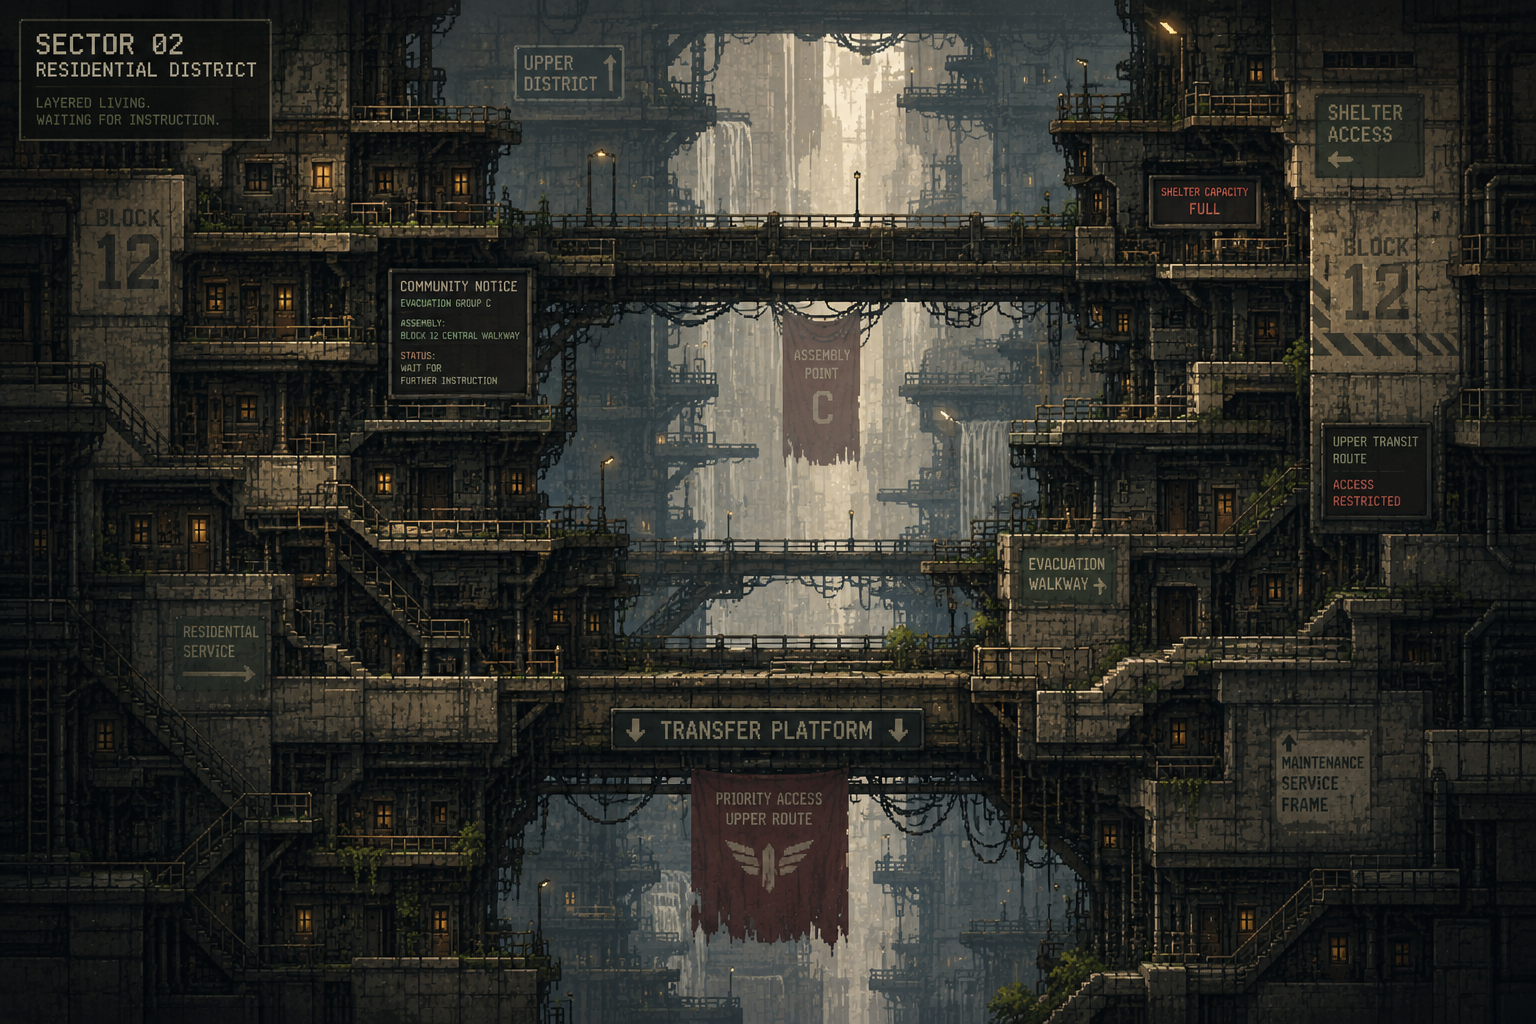
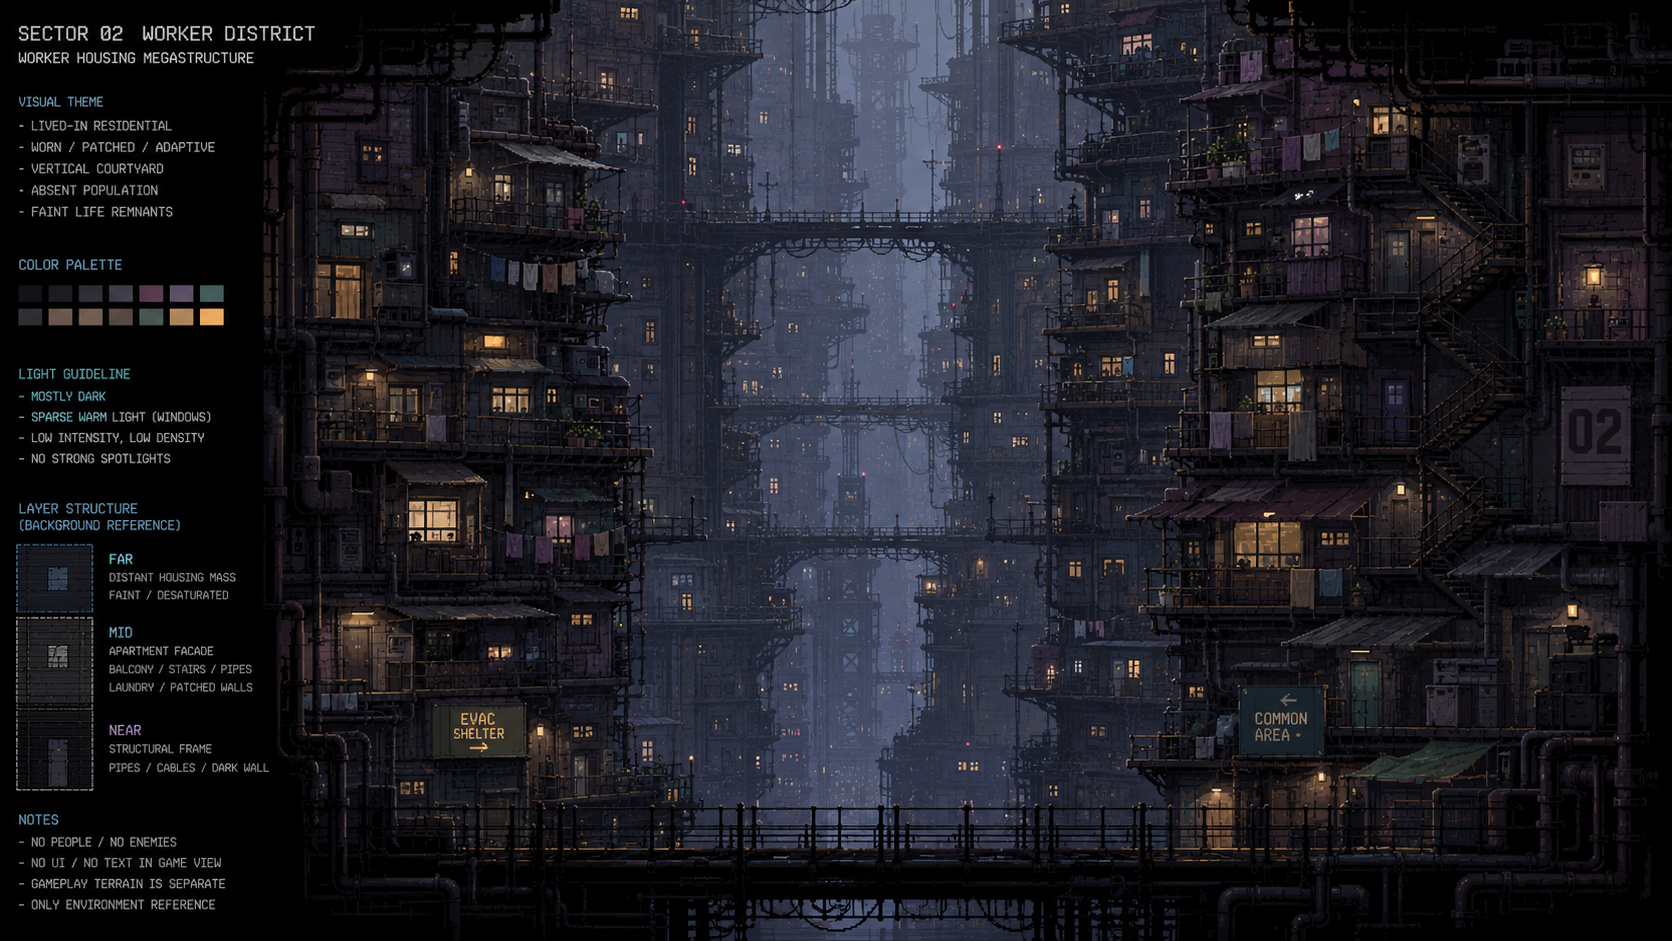
Sector 02 배경 아트 레퍼런스를 갱신한다
사용자가 제공한 Worker District 이미지를 공용 문서 레퍼런스로 교체하고, 제작용 안내 텍스트와 Runtime 경계를 기준 문서에 명시한다.

Related: #758

Confidence: high

Scope-risk: narrow

Tested: PNG 시그니처·치수·SHA-256 확인, 직접 시각 검토, npm run check, npm run format:check, npm run check:scenario-integration, git diff --check

Not-tested: Runtime 환경 atlas·renderer·collision·Gameplay·UI는 문서용 레퍼런스 병합 범위 밖이며, 원본 생성 도구와 사용권은 확인되지 않았다.

diff --git a/docs/scenario-development-integration.md b/docs/scenario-development-integration.md
@@ -3,12 +3,12 @@
 이 문서는 [`bsh/scenario/`](./bsh/scenario/)의 기획 범위와 현재 Runtime 연결 상태를 한 체크포인트에서 비교하는 기준 문서다. Stage 문서가 존재한다는 사실을 구현 완료로 해석하지 않으며, 마지막으로 어디까지 확인했는지와 다음 구현을 막는 결정을 함께 남긴다.
 
 <!-- scenario-integration-checkpoint:v1
-scenario-source-sha256: a8c84df91eb6e876e52f47103ad468ca8e2f3764834bc50c0f690819362760aa
+scenario-source-sha256: 787cf64d56bf4a178e9ece3db4dac391b543f2f32c913abe363dfff21bf010d5
 authored-area-sha256: 48ea494e945fd5847dd556613d93ec1e215623abd0c3fcfaf8f484eb08251ee9
 authored-sector-sha256: 3129e29b1ea699cc91bf98432c1c955c31f9c81278586c1b0e7b801e0c96fe2b
 stage-count: 48
 stage-coverage: 1-1,1-2,1-3,1-4,1-5,1-6,1-7,1-8,2-1,2-2,2-3,2-4,2-5,2-6,2-7,2-8,3-1,3-2,3-3,3-4,3-5,3-6,3-7,3-8,4-1,4-2,4-3,4-4,4-5,4-6,4-7,4-8,5-1,5-2,5-3,5-4,5-5,5-6,5-7,5-8,6-1,6-2,6-3,6-4,6-5,6-6,6-7,6-8
-reviewed-upstream: 8b344f0f7a2309bfb316655668ed180718db7781
+reviewed-upstream: c2026697dd7471a143d3831125f7daf1b672ed7b
 -->
 
 ## 상태를 읽는 법
@@ -184,6 +184,8 @@ reviewed-upstream: 8b344f0f7a2309bfb316655668ed180718db7781
 104. Issue #754는 사용자가 제공한 Sector 05 5-1 REV8.0·5-2 REV1.0·5-3/5-4 REV2.0·5-5 REV4.0·5-6 REV1.1·5-7 REV1.1·5-8 REV2.1 package와 external Master REV4를 authoring 기준 문서에 반영했다. 각 Stage의 topology·story·validation·handoff·MAP/STORY preview와 shared scale/uniqueness gate를 보존했고, 모두 같은 현행 Runtime `area-spec-v1` 구현 계약으로 가장하지 않도록 `AREA-SPEC-REV4-DESIGN.json`으로 분리했다. 이 문서 병합은 Master가 요구하는 Runtime migration approval이나 post-Sector transition 결정을 승인하지 않으며, Hardpoint Jammer·Corporate Authorization 3/3·새 geometry·Direction migration·multiplayer ownership을 구현하지 않았다. 검증 ledger: base `1009af0ef14ec9f64af891833156e6af8a1abdc1`, 내용 candidate tree `952daaef8119fa82ee87d0a14fd071f753233312`, binary diff fingerprint `5340870c4bb759e81ca7095d0647b5059326a920`, Node `v24.14.0`. `npm run check`, `npm run format:check`, `npm run check:scenario-integration`과 `git diff --check`을 PASS했고, 로컬 정적 서버에서 16개 MAP/STORY preview를 Playwright로 열어 HTTP 200·visible root·Map SVG/canvas 8/8·page error 0을 확인했다. 저장소 기본 자동 테스트 suite는 사용자 결정으로 제공되지 않으며, metadata 문서만 후속 추가했으므로 같은 candidate의 suite를 반복하지 않았다.
 
 105. Issue #756은 사용자가 제공한 Sector 06 6-1 REV2.0·6-2 REV3.1·6-3 REV3.0·6-4/6-5 REV2.1·6-6 REV2.2·6-7 REV2.1·6-8 REV3.0 package를 authoring 기준 문서에 반영했다. 각 Stage의 topology·story·validation·handoff와 MAP/STORY preview를 보존했고, package의 `AREA-SPEC.json`은 현행 Runtime `area-spec-v1` 구현 계약으로 가장하지 않도록 모두 `AREA-SPEC-REV3-DESIGN.json`으로 분리했다. 함께 제공된 `SECTOR-06-MASTERPLAN-REV2-MAP-SCALE.md`는 파일명과 달리 본문이 `SECTOR 06-1 SKYBREAK ACCESS — REV2 PLANNING DRAFT`라고 명시하므로 `6-1/`의 reference-only 초안으로 보존하며, Sector Master나 6-1 REV3.0 package를 대체하지 않는다. 이 문서 병합은 Sector 06 Runtime geometry·story·Direction·Timer·Final Security·multiplayer, Post-Sector 05 Boss→6-1 전환, 6-8 뒤의 `PAD SECURITY WARDEN P-03`·Access Restored·개별 Boarding·Escape를 구현하거나 승인하지 않는다. 5-8→6-1 직접 wiring은 계속 금지한다. 검증 ledger: base `8b344f0f7a2309bfb316655668ed180718db7781`, 내용 candidate tree `f871519a288cef9ae1f814561c9325ae0dad2025`, binary diff fingerprint `71d134d118e6d618850cc82e5eb1a6ac28bf0ff0`, Node `v24.14.0`. `npm run check`, `npm run format:check`, `npm run check:scenario-integration`과 staged `git diff --check`을 PASS했고, package-to-repository semantic parity 104/104와 JSON 16/16 parse를 확인했다. 로컬 정적 서버에서 16개 MAP/STORY preview를 Playwright로 열어 HTTP 200·visible root·Map SVG/canvas 8/8·page error 0을 확인했다. 첫 navigation의 `/favicon.ico` 404 하나는 preview page script error가 아니며 import 범위 밖이다. 저장소 기본 자동 테스트 suite는 사용자 결정으로 제공되지 않으며, 이 metadata 문서만 후속 추가했으므로 같은 candidate의 suite를 반복하지 않았다.
+
+106. Issue #758은 사용자가 제공한 `1672×941` Sector 02 Worker District PNG(SHA-256 `bdcd39c2ccec7de6964b9241754a23980e8508b27ee432678354bfb732eb78e5)로 공용 문서 레퍼런스 `2/images/sector-02-background-reference.png`를 교체했다. 새 이미지는 lived-in·patched Worker housing, vertical courtyard, low-density warm windows와 far·mid·near blue-haze 환경 방향을 제공하지만, 이미지 자체의 제목·팔레트·레이어 안내 텍스트는 제작용 편집 정보다. 원본 생성 도구·사용권은 `UNVERIFIED`이므로 상태는 `TEMPORARY MOOD REFERENCE`로 유지하며, 통이미지 Runtime 배경·UI·collision·Gameplay terrain으로 사용하지 않는다. Runtime 전환은 출처·사용권 확인 뒤 별도 environment PNG atlas·manifest·validator 작업으로만 수행한다. 검증 ledger: base `c2026697dd7471a143d3831125f7daf1b672ed7b`, 내용 candidate tree `628766b2e771ebf4df4ff390a6c0bd9438876a19`, binary diff fingerprint `d77b85e6212f2078f0c911379c3274928a4465fd`, Node `v24.14.0`. PNG signature·`1672×941` 치수·SHA-256을 확인했고, 대상 파일을 직접 시각 검토했다. `npm run check`, `npm run format:check`, `npm run check:scenario-integration`과 staged `git diff --check`을 PASS했다. 저장소 기본 자동 테스트 suite는 사용자 결정으로 제공되지 않으며, 이 metadata 문서만 후속 추가했으므로 같은 candidate의 suite를 반복하지 않았다.
 
 ## 열린 기획·구현 게이트
 
